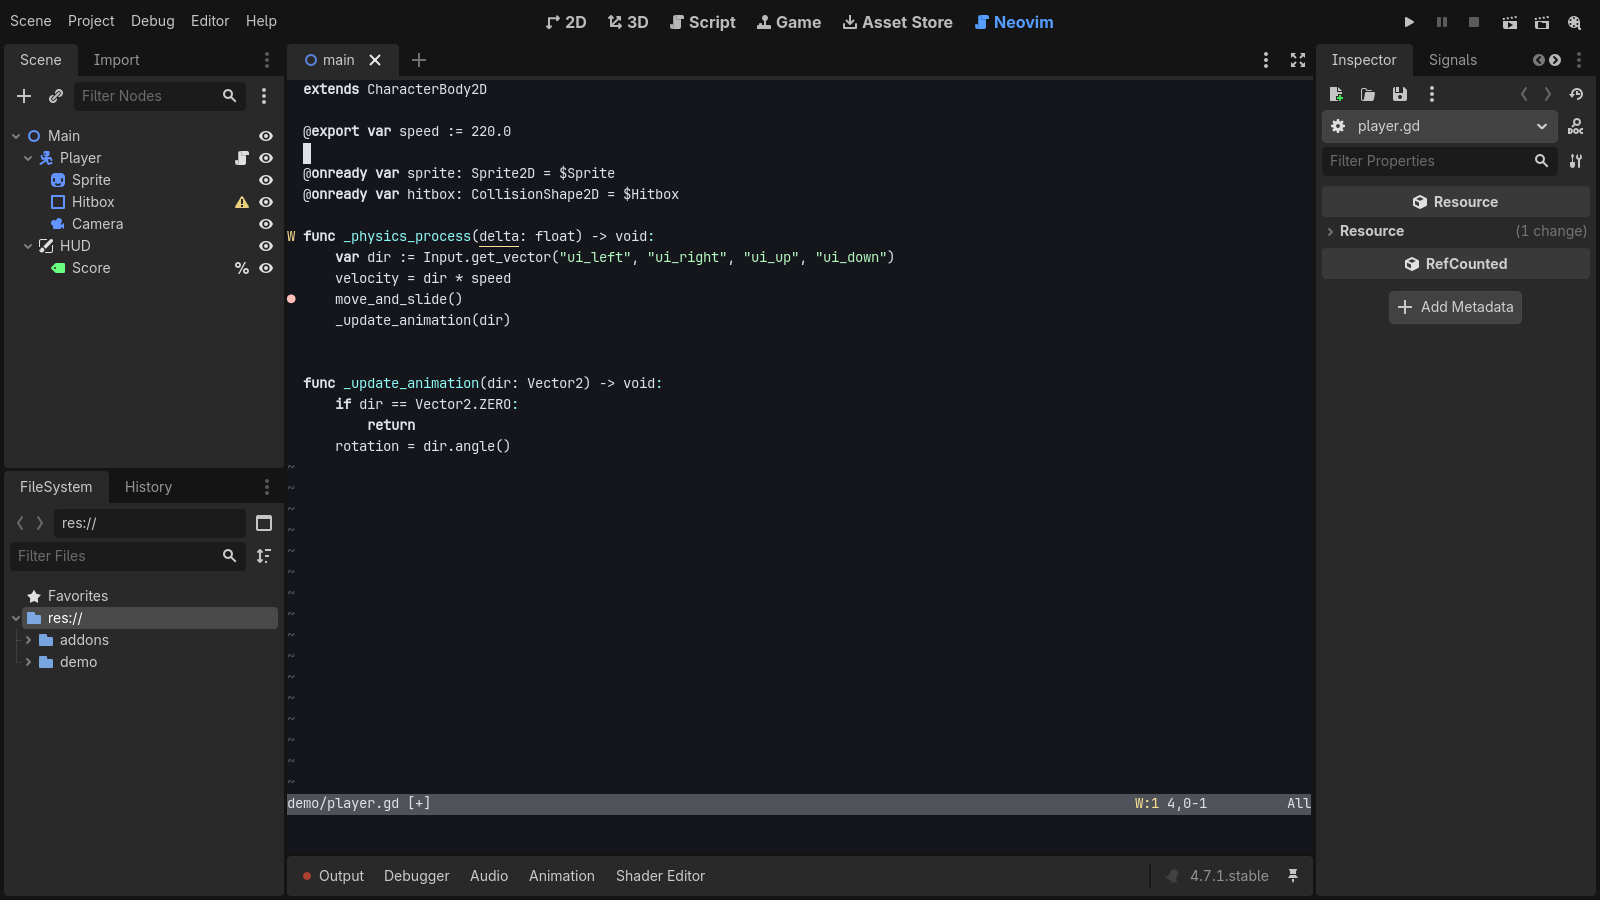
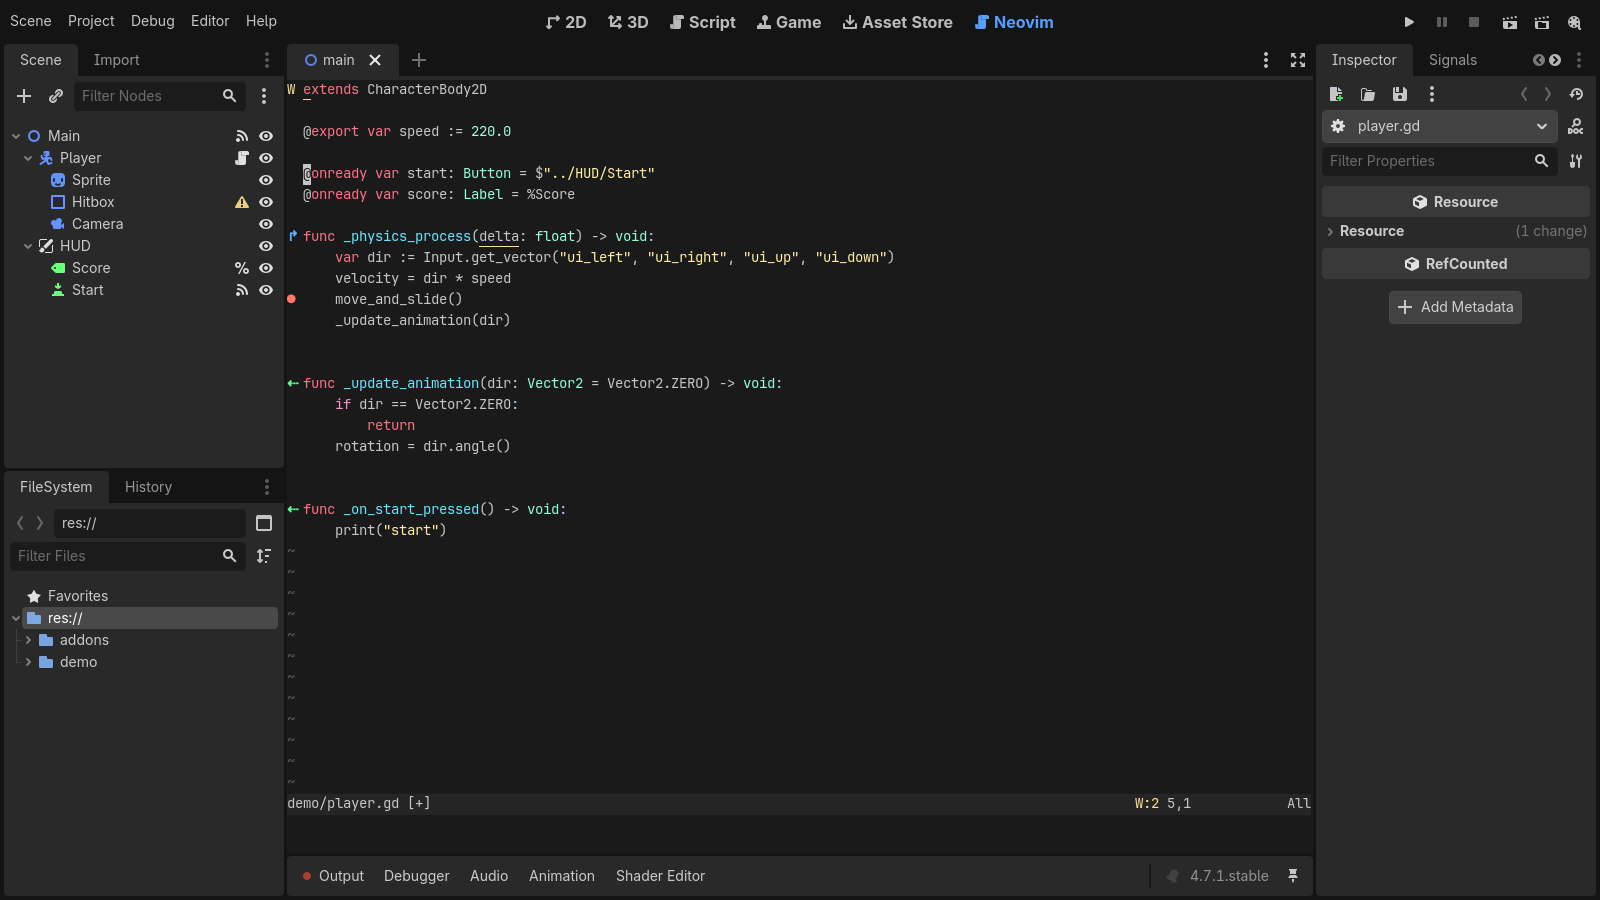
Bring the docs and plugin description up to date
Describe everything that has landed since the packaging work started:
gutter signs, double-click breakpoints, editor colors and run shortcuts,
plus a settings/commands summary. Retake the screenshots with the editor's
colors (breakpoints.png becomes overview.png).

Retaking the drag-and-drop shot showed that dropping a node outside the
script's subtree inserted $../Path; Godot quotes such paths
($"../Path"), so do the same.

Claude-Session: https://claude.ai/code/session_01LqYCwwURrZsWSdQQfq6PGW

diff --git a/README.md b/README.md
@@ -1,11 +1,21 @@
 # godotnvim
 
-A Godot 4 editor plugin that edits GDScript in an embedded Neovim, drawn
-inside the editor with Neovim's UI protocol (`ext_linegrid`). Dragging nodes
-or files from the editor's docks onto the Neovim view inserts the same text
-Godot's own script editor does.
+A Godot 4 editor plugin that edits GDScript, shaders and other text files in
+an embedded Neovim, drawn inside the editor with Neovim's UI protocol
+(`ext_linegrid`). It keeps the parts of Godot's script editor that matter:
 
-![Neovim tab with a breakpoint sign and LSP diagnostics](docs/screenshots/breakpoints.png)
+- dragging nodes or files from the editor's docks inserts the same text Godot
+  does;
+- the GDScript language server gives hover docs, definitions and completion;
+- debugger breakpoints show in the gutter, in sync with Godot's debugger;
+- signs mark methods that signals connect to and methods that override a base
+  class;
+- Neovim takes its colors from the script editor's theme;
+- Godot's run, pause and stop shortcuts keep working while you type.
+
+Your Neovim config, plugins and keymaps load as usual.
+
+![Neovim tab with breakpoint, override and signal signs in the editor's colors](docs/screenshots/overview.png)
 
 ## Requirements
 
@@ -45,6 +55,9 @@ Neovim starts in the project folder and loads your usual config.
   `text_editor/completion/add_type_hints`.
 - Drag files from the FileSystem dock to insert `"res://path"`, or with
   Ctrl/Cmd held, `const Name = preload("res://path")`.
+
+  ![Ctrl-dropping two nodes inserts @onready vars](docs/screenshots/drag-and-drop.png)
+
 - `:w` saves, and Godot reloads the script, shader or JSON.
 - Like Godot's own script editor, unsaved Neovim buffers are written when you
   save a scene or run the project, and Godot asks about them when it closes.
@@ -71,7 +84,8 @@ bindings in Editor Settings → Shortcuts. The same actions are commands:
 ## Debugger
 
 - Breakpoints show as `●` signs in Neovim's sign column (highlight group
-  `GodotBreakpoint`, linked to `DiagnosticError`). They stay in sync with
+  `GodotBreakpoint`: the editor's breakpoint color, or `DiagnosticError` with
+  your own colorscheme). They stay in sync with
   Godot's Breakpoints list, whether you set them from Neovim, Godot's own
   editor gutter, or the debugger panel. While the debugger's **Skip
   Breakpoints** is on, the signs turn grey (`GodotBreakpointSkipped`, linked
@@ -84,8 +98,6 @@ bindings in Editor Settings → Shortcuts. The same actions are commands:
 - Signs move with your edits. On `:w`, Godot's breakpoints move to match.
 - Double-clicking a breakpoint, an error or a stack frame in the debugger
   opens the file in Neovim at that line.
-
-![Ctrl-dropping two nodes inserts @onready vars](docs/screenshots/drag-and-drop.png)
 
 ## Signal connections and overrides
 
@@ -155,6 +167,21 @@ vim.api.nvim_create_autocmd("LspAttach", {
 
 ![Hover docs from Godot's language server](docs/screenshots/lsp-hover.png)
 
+## Settings
+
+Editor Settings → `godot_nvim/`:
+
+| Setting | Default | What it does |
+| --- | --- | --- |
+| `nvim_path` | found automatically | The `nvim` binary |
+| `nvim_args` | empty | Extra arguments for Neovim, such as `-u NONE` |
+| `connect_lsp` | on | Attach Godot's GDScript language server to `.gd` buffers |
+| `use_editor_colors` | on | Use the `godot` colorscheme built from the script editor's colors |
+
+Neovim commands: `:GodotRun`, `:GodotRunCurrent`, `:GodotRunScene`,
+`:GodotPause`, `:GodotStop`, `:GodotToggleBreakpoint`, `:GodotConnections`,
+and `:colorscheme godot`.
+
 ## Known gaps
 
 - Godot's breakpoint API lives in its own script editor, so the plugin keeps
@@ -176,11 +203,11 @@ vim.api.nvim_create_autocmd("LspAttach", {
 | `nvim_view.gd` | Control that draws the grid and sends keyboard, mouse and drops to Neovim |
 | `nvim_keys.gd` | Turns Godot key events into Neovim key notation |
 | `drop_text.gd` | Builds the text for dropped nodes and files, matching Godot's script editor |
-| `godot_nvim.lua` | Neovim-side helpers: save and buffer notifications, drop insertion |
+| `godot_nvim.lua` | Neovim side: save and buffer notifications, `:q` handling, drop insertion, breakpoint, signal and override signs, LSP setup, run commands |
 | `theme_colors.gd` | Reads the script editor's colors for Neovim's `godot` colorscheme |
 | `nvim/colors/godot.lua` | The `godot` colorscheme (needs the colors from the editor) |
 | `debugger_bridge.gd` | EditorDebuggerPlugin: forwards the debugger's go-to-line and breakpoint events |
-| `plugin.gd` | EditorPlugin: the main-screen tab, opening scripts, editor settings |
+| `plugin.gd` | EditorPlugin: the main-screen tab, opening files, editor settings, breakpoint/connection/override/color sync, run actions |
 
 ## Tests
 

diff --git a/addons/godot_nvim/README.md b/addons/godot_nvim/README.md
@@ -4,11 +4,18 @@ Edit GDScript, shaders and other text files in an embedded Neovim, drawn
 inside the Godot editor with Neovim's UI protocol.
 
 - Scripts, shaders, JSON and plain text files open in a **Neovim** main-screen tab.
+  Your Neovim config, plugins and keymaps load as usual.
 - Drag nodes from the Scene dock to insert `$Path` (Ctrl/Cmd: `@onready var`),
   or files from the FileSystem dock to insert paths (Ctrl/Cmd: `preload`).
 - GDScript language server is connected: hover docs, definitions, completion.
-- Debugger breakpoints show as signs; toggle them with `F9`. Debugger
-  double-clicks jump to the line.
+- Debugger breakpoints show as signs and stay in sync with Godot; toggle them
+  with `F9` or a double-click in the gutter. Debugger double-clicks jump to
+  the line.
+- Signs mark methods connected to signals (`⇠`) and methods that override a
+  base class (`↱`); `:GodotConnections` lists them.
+- Neovim uses the script editor's colors and follows theme changes.
+- Godot's run, pause and stop shortcuts work while typing, and as
+  `:GodotRun`, `:GodotRunCurrent`, `:GodotRunScene`, `:GodotPause`, `:GodotStop`.
 
 ## Requirements
 
